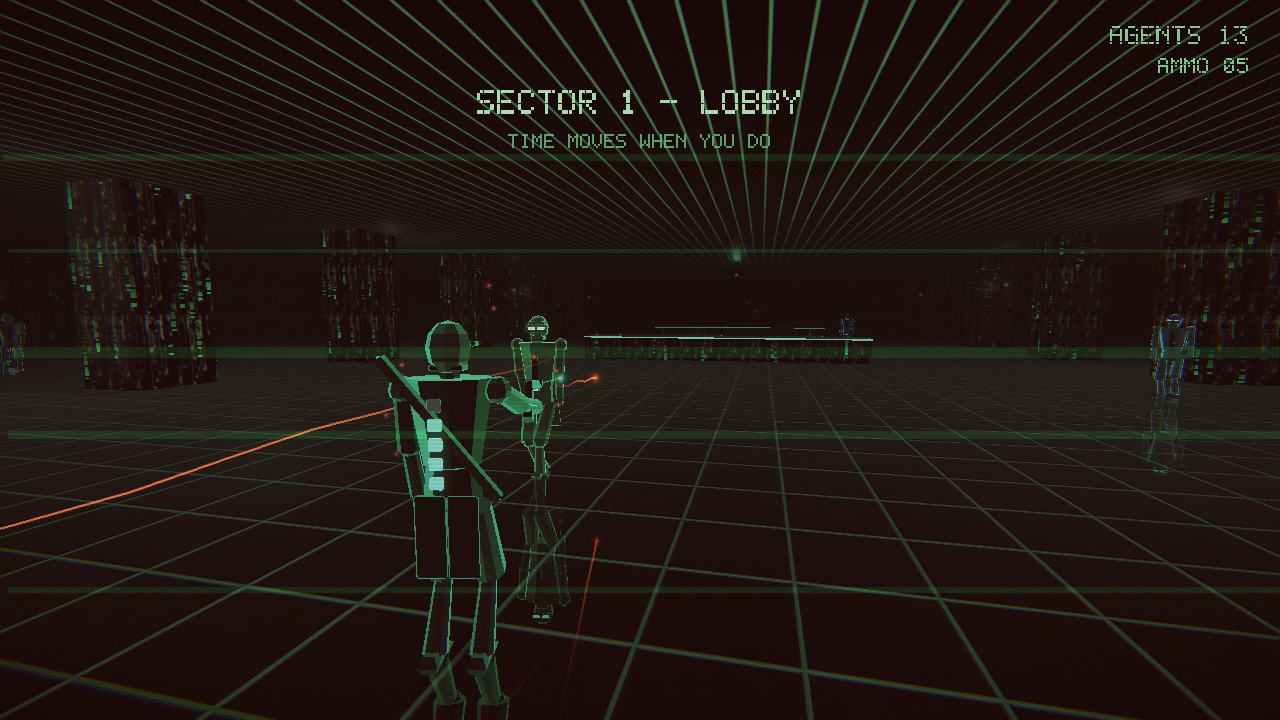
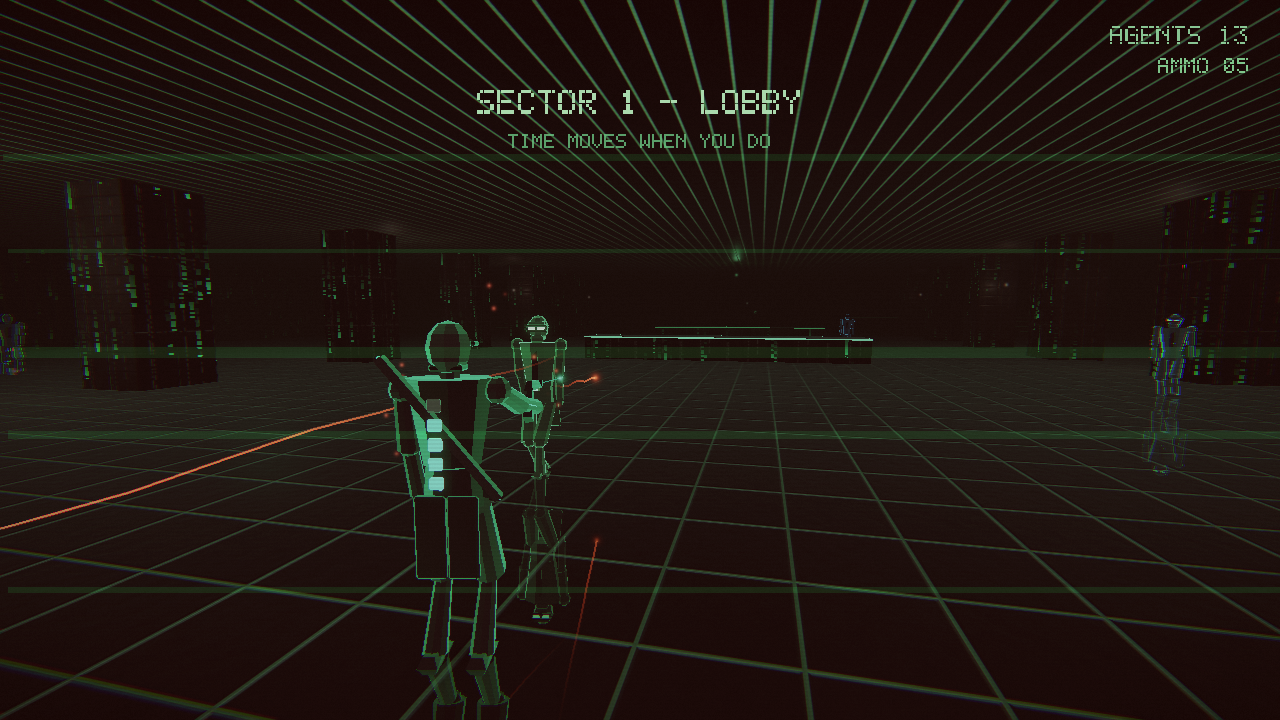
Wall circuitry: rectilinear traces instead of fbm contour goo
The panel 'circuitry' was an iso-band of fbm noise — wandering organic
contour lines that passed as faint texture detail while unlit, but read
as glowing goo once the emissive mask fed them to the bloom. Replaced
with crisp rectilinear dashes on an 8px grid (hashed live rows/columns
with hashed segment breaks, kept off the panel seams by the bevel gate)
so the walls read as etched circuit traces alongside the digital rain.

Smoke re-baselined; screenshots and title animation regenerated.

Claude-Session: https://claude.ai/code/session_01N5QihELf4uaRYFBQUuLDVJ

diff --git a/dilation.c b/dilation.c
@@ -263,9 +263,15 @@ static void gen_textures(void){
      * so a long wall stops reading as the same panel wallpapered 40 times */
     float pv=hash2(x>>7,y>>6,313u);
     hh[y*TS+x]=bevel*0.9f*(pv>0.86f?0.55f:1.0f)+grain*0.1f;
-    /* faint traced circuitry inside the panel */
-    float tr = fbm(u*2.0f,v*0.3f,3,8,909u);
-    float circuit = (tr>0.49f&&tr<0.515f)?0.5f:0.0f;
+    /* traced circuitry inside the panel: crisp rectilinear dashes on an 8px
+     * grid — hashed live rows/columns with hashed segment breaks, like PCB
+     * traces. The old fbm iso-band drew wandering organic contour lines,
+     * which read as glowing goo once the emissive mask lit them up. Kept off
+     * the panel seams by the bevel gate. */
+    int gx=x>>3, gy=y>>3;
+    int hline = hash2(gy,y>>6,417u)>0.80f && hash2(gx,gy,913u)>0.35f && (y&7)==3;
+    int vline = hash2(gx,x>>7,517u)>0.88f && hash2(gy,gx,113u)>0.40f && (x&7)==3;
+    float circuit = ((hline||vline) && bevel>0.45f) ? 0.5f : 0.0f;
     float base = (0.030f + grain*0.014f)*(0.75f+0.50f*pv);
     if(bevel<0.4f) base*=0.45f;                   /* seams nearly black  */
     putrgb(&alb[(y*TS+x)*4],
